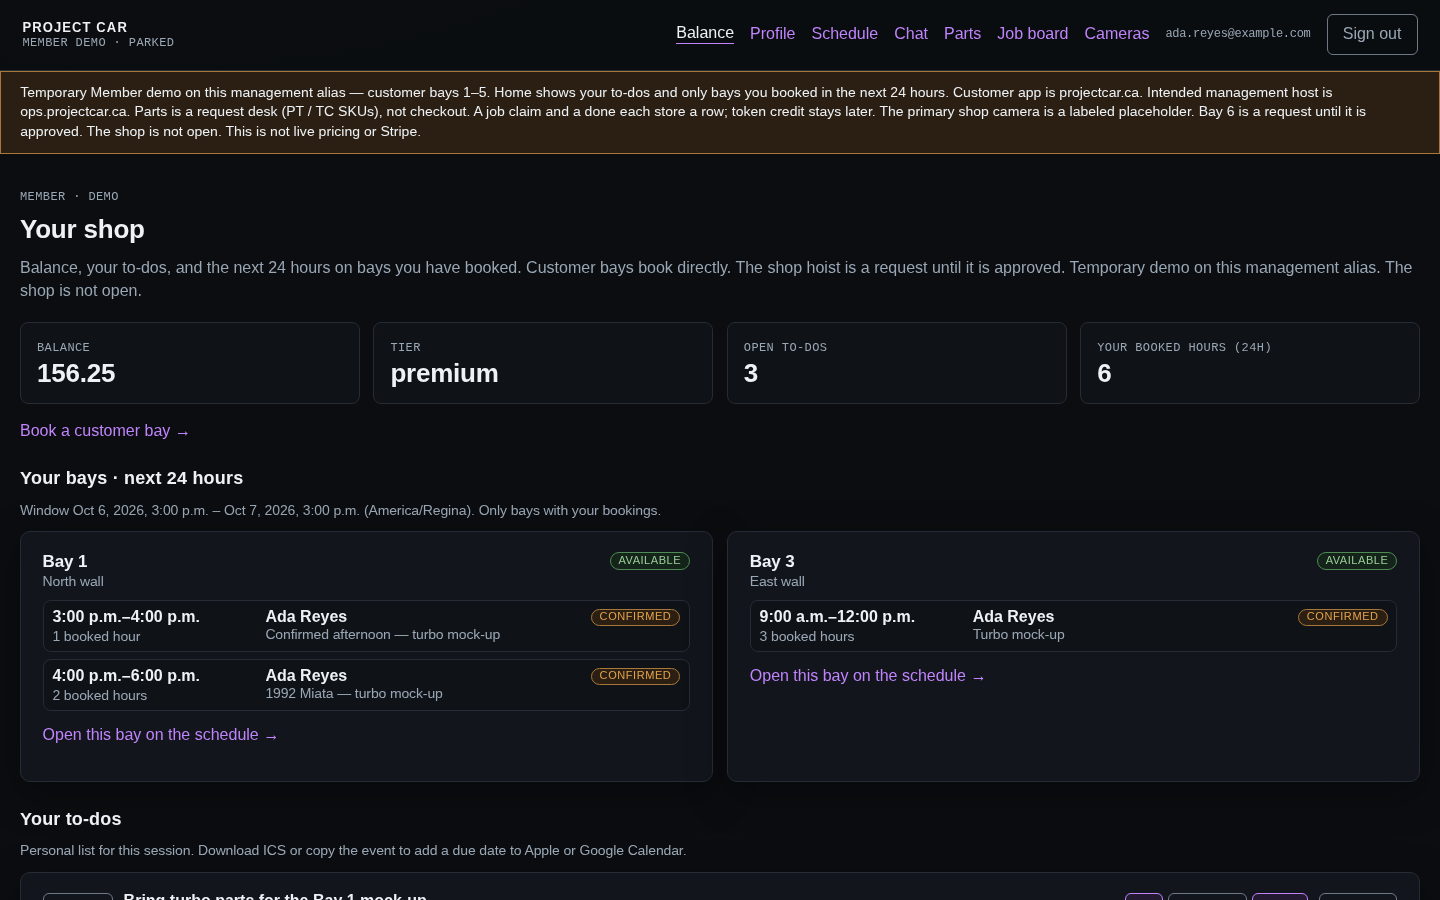
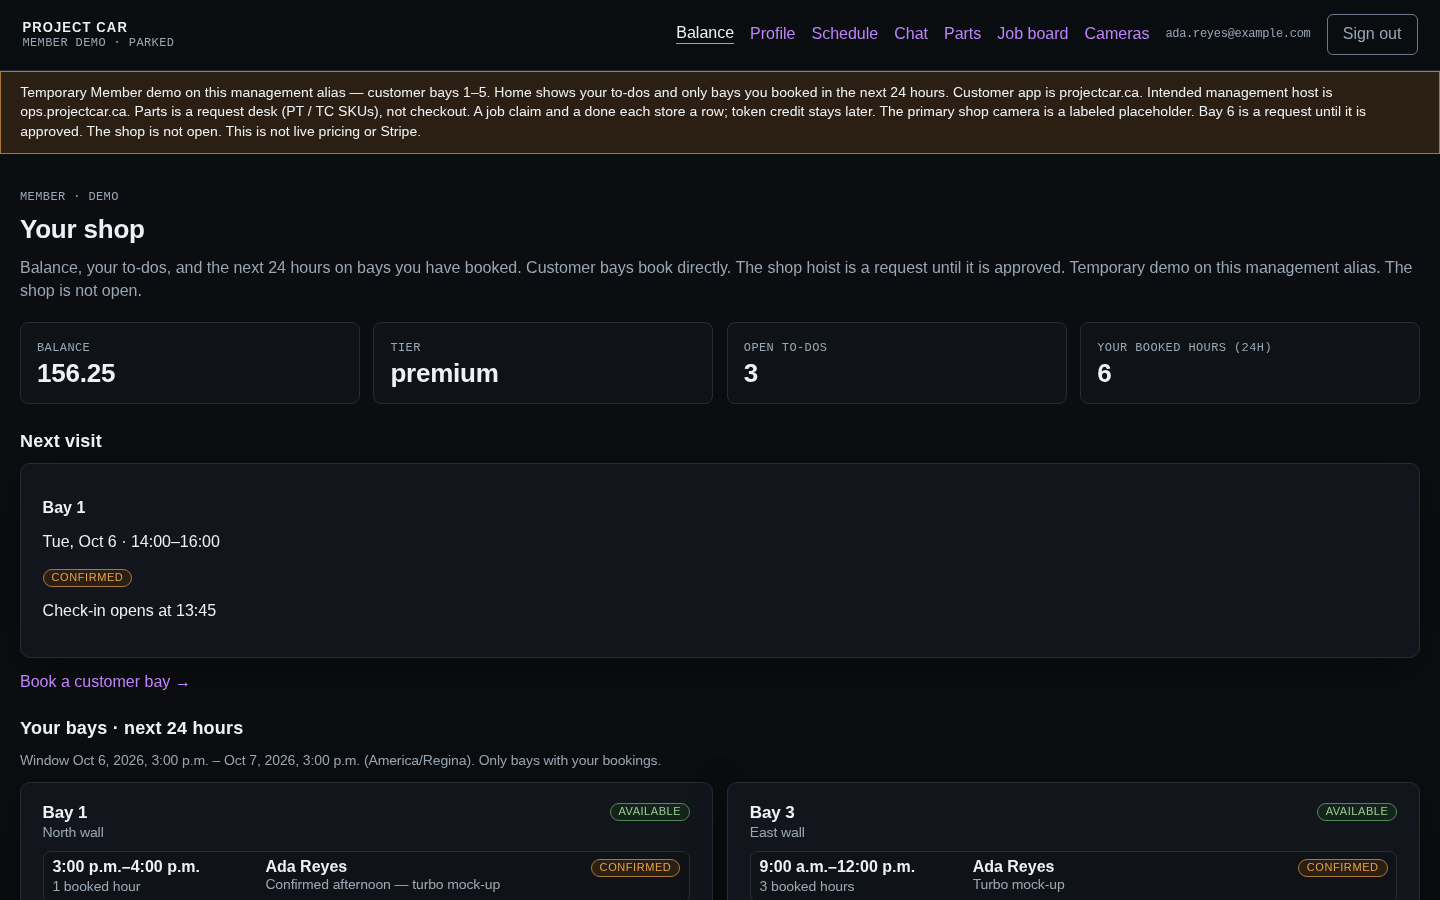
GREEN: R91 put the next visit card under the metrics in the member-home shot
The card now sits under the metrics, inside the 768 and 1440 viewports that
member-home.png compares. Naive shop timestamps are America/Regina, so the
shot shows the in-progress Bay 1 visit. The 1% pixel cap is unchanged.

diff --git a/apps/project-car/web/lib/next-visit.ts b/apps/project-car/web/lib/next-visit.ts
@@ -36,7 +36,20 @@ export type NextVisit = {
 };
 
 function instant(iso: string): number {
-  return new Date(iso).getTime();
+  return new Date(withShopOffset(iso)).getTime();
+}
+
+// America/Regina is UTC−6 all year. Seed and datetime-local rows omit the
+// offset; reading them as host-local UTC drops a visit that is still underway.
+function withShopOffset(iso: string): string {
+  if (/[zZ]|[+-]\d{2}:?\d{2}$/.test(iso)) {
+    return iso;
+  }
+  const match = iso.match(/^(\d{4}-\d{2}-\d{2})T(\d{2}):(\d{2})(?::(\d{2})(?:\.\d+)?)?/);
+  if (!match) {
+    return iso;
+  }
+  return `${match[1]}T${match[2]}:${match[3]}:${match[4] ?? "00"}-06:00`;
 }
 
 function shopDay(date: Date): string {

diff --git a/apps/project-car/web/app/member/page.tsx b/apps/project-car/web/app/member/page.tsx
@@ -59,6 +59,8 @@ export default async function MemberHomePage({
           </div>
         </div>
 
+        <NextVisitCard bookings={me.bookings} now={shopClock()} />
+
         <p>
           <Link href="/member/schedule">Book a customer bay →</Link>
         </p>
@@ -97,9 +99,6 @@ export default async function MemberHomePage({
           icsPath={(id) => `/member/todos/${id}/ics`}
           audience="member"
         />
-
-        {/* Below the 768×1024 and 1440×900 folds. member-home.png stays on the 1% cap. */}
-        <NextVisitCard bookings={me.bookings} now={shopClock()} />
 
         <h2>Open bookings</h2>
         {open.length === 0 ? (
